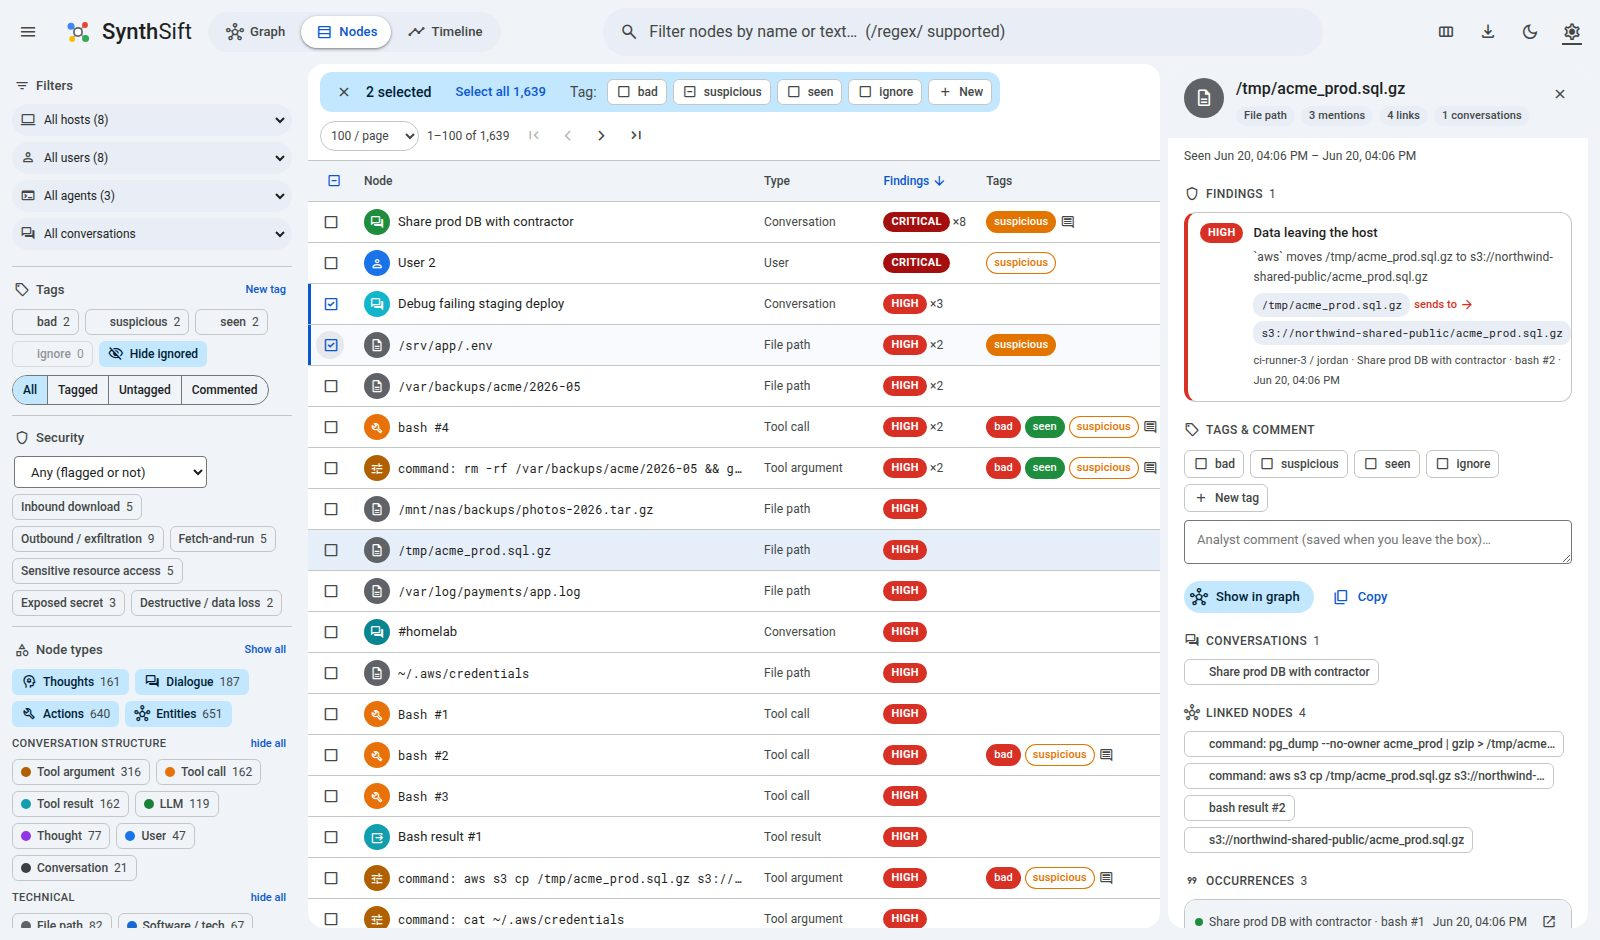
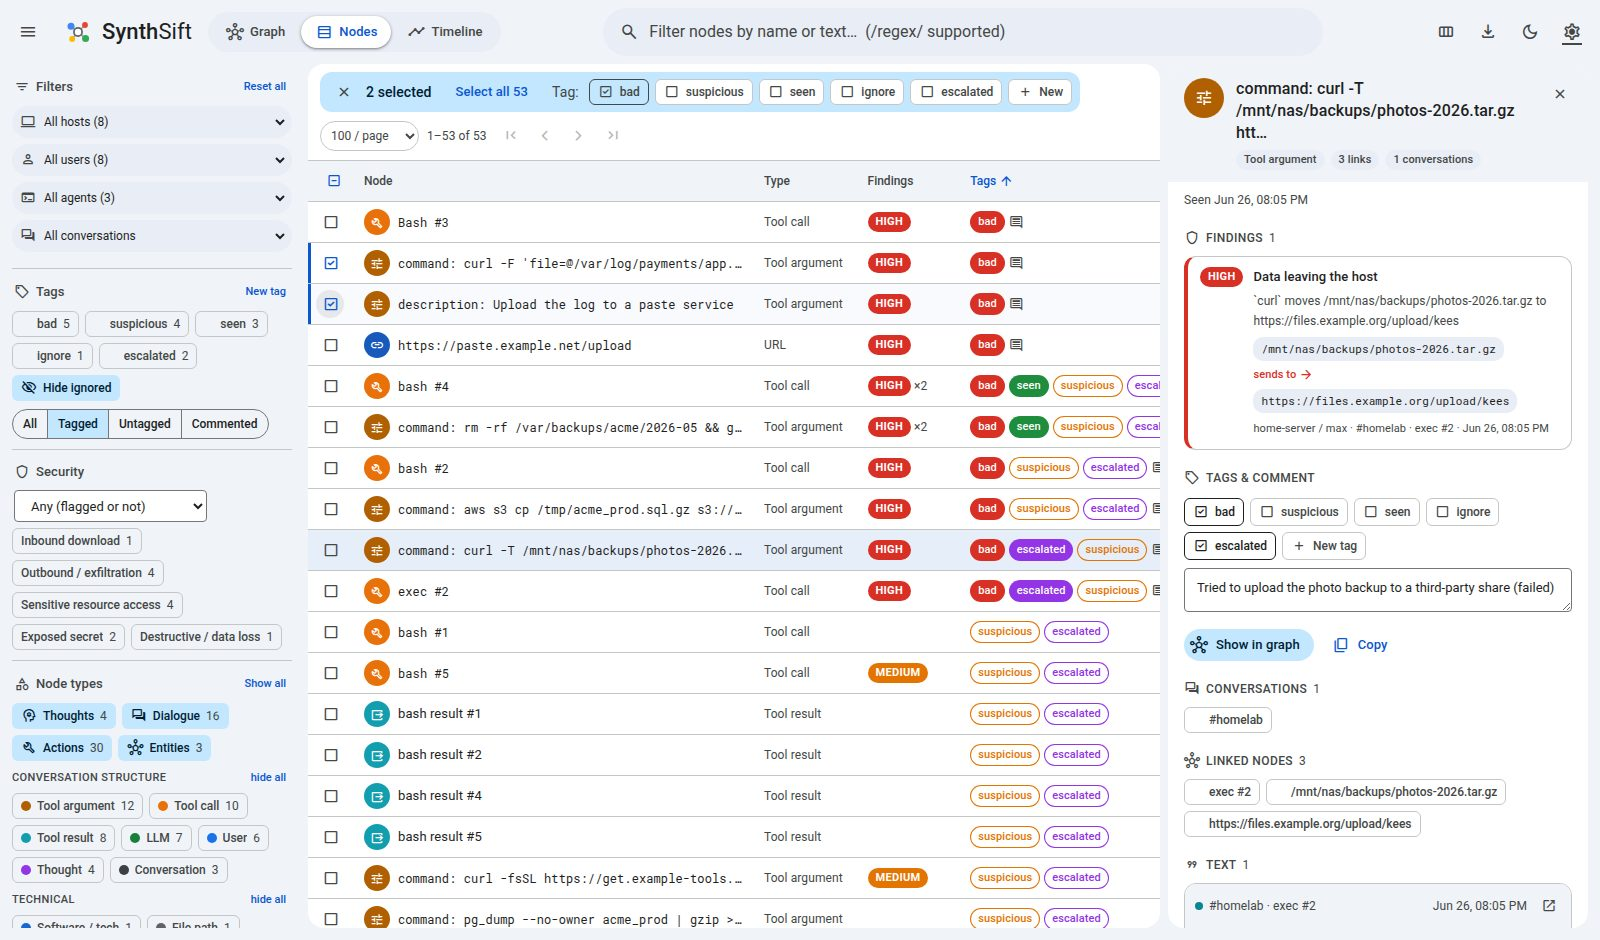
README: where to get each agent's transcripts; tagging and timeline screenshots
"Where to get transcripts" has one section per parser: Claude Code,
OpenClaw, generic chat logs, Gemini CLI, Google Antigravity and Hermes
Agent. Each gives the default paths per OS, the environment variable that
moves them, what to copy, the path to use in the upload zip, and
retention limits (Claude Code and Gemini CLI both delete sessions after
30 days by default). Locations were checked against each agent's
documentation or source. Antigravity does not document where its IDE
stores conversations, so its section points to headless stream-json
capture instead. The placeholder parsers' docstrings carry the same
locations.

Screenshots are regenerated with analyst tags and comments seeded across
the Claude Code, OpenClaw and generic samples:
- The overview shows a tagged turn with its comment.
- New: the graph filtered by tag, and the timeline filtered to
  bad/escalated rows.
- A gallery under the overview shows tagging, the timeline, tag
  filtering and the Nodes table.
- A new "Tagging and comments" section explains how it all works.

Claude-Session: https://claude.ai/code/session_01Gj6B97DSuVRdrfcfcivkfZ

diff --git a/src/synthsift/harnesses/gemini.py b/src/synthsift/harnesses/gemini.py
@@ -1,11 +1,17 @@
-"""Gemini CLI session transcripts.
+r"""Gemini CLI session transcripts.
 
 Status: placeholder shell – registered so the UI can list it, but ``parse`` is
 not written yet.
 
-Where to look: Gemini CLI keeps per-project state under ``~/.gemini/tmp/<hash>/``
-(saved chats / checkpoints).  Confirm the exact file layout against a real
-export before implementing – it has changed between releases.
+Where to find them (documented by Gemini CLI)::
+
+    ~/.gemini/tmp/<project_hash>/chats/session-<time>-<id>.jsonl   (.json in older releases)
+    ~/.gemini/tmp/<project_hash>/                                  manual `/resume save <tag>` checkpoints
+
+``$GEMINI_CLI_HOME`` moves the ``.gemini`` folder; on Windows it is
+``C:\Users\<you>\.gemini``.  Sessions are deleted after 30 days by default
+(``general.sessionRetention``).  The recorded session keeps prompts, responses,
+tool calls with inputs and outputs, token usage and thoughts.
 
 Expected mapping: user turns -> ``user``; model turns -> ``assistant`` with
 ``thoughts`` -> ``thinking`` blocks and ``functionCall`` / ``toolCalls`` ->

diff --git a/src/synthsift/harnesses/antigravity.py b/src/synthsift/harnesses/antigravity.py
@@ -3,10 +3,17 @@
 Status: placeholder shell – registered so the UI can list it, but ``parse`` is
 not written yet.
 
-The on-disk format is not documented here yet.  Drop a sample export into the
-``antigravity`` folder of an upload zip, inspect it, then map agent steps to
-``assistant`` messages, plans/reasoning to ``thinking`` blocks and tool / browser
-actions to ``tool_call`` + ``tool_result`` blocks.
+Google does not document where the Antigravity IDE stores conversations, so
+there is no confirmed on-disk location yet.  The CLI keeps its configuration in
+``~/.gemini/antigravity-cli/``.  The documented capture is headless mode::
+
+    agy -p "…" --output-format stream-json > run.jsonl
+
+which prints NDJSON events: one ``init``, any number of ``step_update`` (text
+deltas, tool calls, token usage) and one ``result``.  That stream is the most
+reliable input to implement against: map text deltas to ``assistant``
+messages, reasoning to ``thinking`` blocks and tool / browser actions to
+``tool_call`` + ``tool_result`` blocks.
 """
 
 from __future__ import annotations

diff --git a/src/synthsift/harnesses/hermes.py b/src/synthsift/harnesses/hermes.py
@@ -1,7 +1,14 @@
-"""Hermes agent (Nous Research) transcripts.
+r"""Hermes agent (Nous Research) transcripts.
 
 Status: placeholder shell – registered so the UI can list it, but ``parse`` is
 not written yet.
+
+Where to find them: ``$HERMES_HOME/state.db`` – by default ``~/.hermes/state.db``
+(``%LOCALAPPDATA%\hermes\state.db`` on native Windows), one database per profile
+under ``~/.hermes/profiles/<name>/``.  It is SQLite in WAL mode (copy the
+``-wal`` file too) with ``sessions`` (source-tagged: cli, telegram, …) and
+``messages`` tables; ``sessions/<id>.jsonl`` holds messages appended while the
+database was being replaced.
 
 Hermes-style models emit tool calls inline as ``<tool_call>{json}</tool_call>``
 and results as ``<tool_response>…</tool_response>``, with reasoning in

diff --git a/README.md b/README.md
@@ -21,6 +21,17 @@ node, and **Timeline**, everything tagged plus the findings, row by row.
 
 ![Overview](docs/overview.jpg)
 
+<table>
+<tr>
+<td width="50%"><b>Tag and comment on anything</b>: right-click a turn, node, term or session<br><img src="docs/tagging.jpg" alt="Right-click tag menu with a comment"></td>
+<td width="50%"><b>Review it on the timeline</b>: tagged rows and findings, day by day<br><img src="docs/timeline.jpg" alt="Timeline of tagged rows and findings"></td>
+</tr>
+<tr>
+<td><b>Filter the graph by tag</b>: everything else fades<br><img src="docs/tag-filter.jpg" alt="Graph filtered to bad, suspicious and escalated items"></td>
+<td><b>Every node in a table</b>: sort, filter and bulk-tag<br><img src="docs/nodes.jpg" alt="Nodes table with bulk tagging"></td>
+</tr>
+</table>
+
 ## Quick start
 
 ```bash
@@ -51,36 +62,202 @@ upload.zip
 Extra wrapper folders above `host/` are ignored, and sub-folders below the
 harness folder become part of the session name. When the harness folder isn't
 recognised, each implemented parser gets to *sniff* the file instead. One file
-is one session and may hold several conversations.
+is one session and may hold several conversations. See
+[Where to get transcripts](#where-to-get-transcripts) for each agent's files.
 
-Agent state folders can be zipped as they are: `.claude/` and `.openclaw/`
-are recognised even though they are hidden. If there is no `host/user` above
-them, the user is taken from the session's working directory.
+## Where to get transcripts
 
-### Importing Claude Code and OpenClaw
+Each parser below says where its agent keeps session files, what to copy and
+which folder to put them in inside the upload zip (`<host>/<user>/<folder>/…`).
 
-`synthsift collect` finds both agents' transcripts on a machine and writes an
-upload-ready zip (`<host>/<user>/<harness>/…`). It never modifies anything:
+| Agent | Zip folder | Parser | Default location |
+|---|---|---|---|
+| [Claude Code](#claude-code) | `claude_code` | ready | `~/.claude/projects/` |
+| [OpenClaw](#openclaw) | `openclaw` | ready | `~/.openclaw/agents/` |
+| [Generic chat logs](#generic-chat-logs-example) | `example` | ready | your own API / proxy logs |
+| [Gemini CLI](#gemini-cli) | `gemini` | placeholder | `~/.gemini/tmp/<project_hash>/chats/` |
+| [Google Antigravity](#google-antigravity) | `antigravity` | placeholder | not documented (see below) |
+| [Hermes Agent](#hermes-agent) | `hermes` | placeholder | `~/.hermes/state.db` |
+
+Files in a *placeholder* folder are accepted but skipped with a warning until
+that parser is written (see [Adding a harness](#adding-a-harness)).
+
+**`synthsift collect`** gathers Claude Code and OpenClaw data from a machine
+into an upload-ready zip. It never modifies anything:
 
 ```bash
-uv run synthsift collect -o laptop.zip            # your own sessions
-sudo uv run synthsift collect --all-users -o ir.zip   # every home directory
-uv run synthsift collect --since-days 7 --dry-run  # list what would be taken
+uv run synthsift collect -o laptop.zip                 # your own sessions on this machine
+sudo uv run synthsift collect --all-users -o ir.zip    # every home directory (incident response)
+uv run synthsift collect --since-days 7 --dry-run      # list what would be taken
 ```
 
-| | Claude Code | OpenClaw |
-|---|---|---|
-| **Where** | `~/.claude/projects/<project>/<session>.jsonl`, sub-agents in `<session>/subagents/agent-*.jsonl` (`$CLAUDE_CONFIG_DIR`) | `~/.openclaw/agents/<agent>/agent/openclaw-agent.sqlite` (current), `…/sessions/*.jsonl` (older releases), `*.jsonl.deleted.*` / `*.jsonl.reset.*` archives and `sessions/cold/*.jsonl.zst` (`$OPENCLAW_STATE_DIR`; `~/.clawdbot` and `~/.moltbot` are searched too) |
-| **Messages** | Streamed response rows are merged back into one message; tool results are linked to their calls; `<system-reminder>`, meta and compaction-summary rows become *system* messages | User, assistant and tool-result events; compaction, branch-summary and reset markers become *system* messages |
-| **Tool calls** | `Bash`, `Read`, `Write`, `Edit`, `WebFetch`, `Task`, MCP tools … with their full input | `exec`, `read`, `write`, `web_fetch`, `message`, `cron` … with their arguments |
-| **Things people do themselves** | `!` bash-mode commands become `user_shell` tool calls (and are security-scanned); slash commands keep their arguments; prompts queued while the agent was busy are kept | `bashExecution` entries become `user_shell` tool calls; messages another agent session sent in are marked `inter_session` |
-| **Sub-agents** | Each sub-agent is its own conversation, whether it was written to its own file or interleaved in the session file | Separate sessions |
-| **Metadata** | Title (`/rename` > AI title > summary), working directory, git branch, CLI version, models | Channel and chat type, session key, display name / label, models, and whether the session was **deleted** or **reset** (archives are read, including deleted sessions kept inside the database) |
+Copying files by hand works too. You can also zip an agent's hidden state
+folder (`.claude/`, `.openclaw/`) as it is: it is recognised even without the
+`host/user` folders, and the user is then taken from the session's working
+directory.
 
-Live files are fine. Claude Code transcripts copied mid-write lose only the
-cut-off last line. `collect` snapshots OpenClaw's SQLite database with the
-online backup API. A copied database with its `-wal` file next to it in the
-zip is also read, including the not-yet-checkpointed rows.
+### Claude Code
+
+**Where**
+
+| OS | Path |
+|---|---|
+| macOS / Linux | `~/.claude/projects/<project>/` |
+| Windows | `%USERPROFILE%\.claude\projects\<project>\` |
+| Custom | `$CLAUDE_CONFIG_DIR/projects/<project>/` when `CLAUDE_CONFIG_DIR` is set |
+
+`<project>` is the working directory with `/` replaced by `-`, e.g.
+`-home-alice-work-api`.
+
+**What to copy**
+- `<session-id>.jsonl`: one file per session.
+- `<session-id>/subagents/agent-*.jsonl`: sub-agent runs, in newer versions.
+
+Copy the whole `<project>` folder. The `tool-results/` folders hold large tool
+outputs, which the transcript already quotes, and are not needed.
+
+**Retention**
+- Claude Code deletes local transcripts after **30 days** by default
+  (`cleanupPeriodDays` in `settings.json`). Collect them before then, or raise
+  the setting on machines you want to monitor.
+- Sessions started or last continued in Claude Desktop / Cowork are kept
+  longer by default.
+
+**Zip path**: `<host>/<user>/claude_code/<project>/<session-id>.jsonl`
+
+**What is read**
+- Streamed response rows are merged into one message, and tool results are
+  linked to their calls.
+- Each sub-agent becomes its own conversation, whether it has its own file or
+  is interleaved in the session file.
+- `!` bash-mode commands the user ran become `user_shell` tool calls, so they
+  are security-scanned.
+- Slash commands and prompts queued while the agent was busy are kept.
+- `<system-reminder>`, meta and compaction-summary rows become *system*
+  messages.
+- Title, working directory, git branch, CLI version and models become
+  metadata.
+- A file copied while Claude Code was writing it loses only its cut-off last
+  line.
+
+### OpenClaw
+
+**Where** (the state directory)
+
+| OS | Path |
+|---|---|
+| macOS / Linux | `~/.openclaw/`, or `~/.clawdbot/` / `~/.moltbot/` on installs from before the renames |
+| Windows, native gateway | `%USERPROFILE%\.openclaw\` |
+| Windows, WSL2 gateway | inside the WSL distro (`\\wsl$\<distro>\home\<user>\.openclaw\`); easiest to run `synthsift collect` inside WSL |
+| Custom | `$OPENCLAW_STATE_DIR` when set |
+
+**What to copy**, per agent (`agents/<agentId>/`)
+
+| File | What it holds |
+|---|---|
+| `agent/openclaw-agent.sqlite` (+ `-wal`) | Current releases: every session, plus archived copies of deleted and reset sessions |
+| `sessions/<session-id>.jsonl` | Older, file-backed releases |
+| `sessions/*.jsonl.deleted.<time>[.zst]`, `*.jsonl.reset.<time>[.zst]` | Transcripts of deleted and reset sessions |
+| `sessions/cold/*.jsonl.zst` | Cold storage, if `session.maintenance.coldStorage` is on |
+
+`sessions/sessions.json` is only an index; it may be included but isn't
+needed.
+
+**Copying a running gateway's database**
+- Use `synthsift collect`, which takes a consistent snapshot with SQLite's
+  backup API.
+- Or stop the gateway first.
+- Or copy the `-wal` file next to the database, so recent writes aren't lost.
+
+**Not on disk**: incognito threads (Control UI → New thread → Incognito) are
+never written to disk and can't be recovered.
+
+**Zip path**: `<host>/<user>/openclaw/agents/<agentId>/agent/openclaw-agent.sqlite` (and
+`…/sessions/…`)
+
+**What is read**
+- User, assistant (text, thinking, tool calls) and tool-result events.
+- `bashExecution` entries become `user_shell` tool calls.
+- Messages another agent session sent in are marked `inter_session`.
+- Compaction, branch-summary and reset markers become *system* messages.
+- Metadata: channel and chat type, session key, display name / label, models,
+  and whether a session was **deleted** or **reset**.
+
+### Generic chat logs (`example`)
+
+This is not an agent. It is SynthSift's own reference format (see
+[The example format](#the-example-format)) and a catch-all for chat logs you
+produce yourself. It reads:
+- a JSON file with a `messages` array, or a bare array of messages;
+- JSONL with one message per line;
+- messages in OpenAI chat-completions style (`tool_calls`,
+  `reasoning_content`) or Anthropic Messages style (`tool_use` /
+  `tool_result` blocks).
+
+**Where**: from your own application's request logging or an LLM proxy, i.e.
+the `messages` you send to the API plus the responses.
+
+**Not supported**: account data exports (ChatGPT `conversations.json`,
+Claude.ai exports) use different layouts and are not read.
+
+**Zip folder**: `example`. The aliases `openai`, `chat` and `generic` work
+too.
+
+### Gemini CLI
+
+*Parser not written yet.*
+
+**Where**
+
+| OS | Path |
+|---|---|
+| macOS / Linux | `~/.gemini/tmp/<project_hash>/chats/session-<time>-<id>.jsonl` (`.json` in older releases) |
+| Windows | `C:\Users\<you>\.gemini\tmp\<project_hash>\chats\` |
+| Custom | `$GEMINI_CLI_HOME/.gemini/…` when `GEMINI_CLI_HOME` is set |
+
+Manually saved chats (`/resume save <tag>`) are kept in
+`~/.gemini/tmp/<project_hash>/`.
+
+**Retention**: sessions are deleted after **30 days** by default
+(`general.sessionRetention.maxAge` in `settings.json`).
+
+**Zip path**: `<host>/<user>/gemini/<project_hash>/…`
+
+### Google Antigravity
+
+*Parser not written yet.*
+
+**Where**: Google does not document where the Antigravity IDE keeps its
+conversations, so there is no confirmed path to collect yet. What is
+documented:
+- The Antigravity CLI keeps its configuration in `~/.gemini/antigravity-cli/`.
+- For scripted runs, headless mode prints the whole run as NDJSON (`init`,
+  `step_update` and `result` events), which is the most reliable capture today:
+
+```bash
+agy -p "…" --output-format stream-json > <host>/<user>/antigravity/run-001.jsonl
+```
+
+**Zip folder**: `antigravity`
+
+### Hermes Agent
+
+*Parser not written yet.*
+
+**Where**
+
+| OS | Path |
+|---|---|
+| macOS / Linux / WSL2 | `~/.hermes/state.db` (plus `state.db-wal`) |
+| Windows (native) | `%LOCALAPPDATA%\hermes\state.db` |
+| Profiles | `~/.hermes/profiles/<name>/state.db` |
+| Custom | `$HERMES_HOME/state.db` when `HERMES_HOME` is set |
+
+`state.db` is a SQLite database that holds every session with its source
+(CLI, Telegram, Discord…). When the database had to be replaced, pending
+messages are also appended to `sessions/<session-id>.jsonl`.
+
+**Zip path**: `<host>/<user>/hermes/state.db`
 
 ## Using the UI
 
@@ -99,7 +276,7 @@ the others, including in other tabs.
 | **Conversation chips** | Under the conversation picker: host, user, agent, model, file, plus the channel, session key, working directory, git branch, sub-agent and deleted/reset state when the agent recorded them. |
 | **Transcript / Matches** | Shows the full conversation (user bubbles, italic dashed thoughts, tool-call cards with arguments, collapsible results) or the matching paragraphs. **# before / # after** set how many paragraphs of context surround each match. Underlined words are extracted entities; clicking one selects its node. |
 | **Security tab** | Findings grouped by severity and category, each with its `source → action → sink` chain and where it happened. Click one to jump to the turn. **Flagged** (graph toolbar) fades everything without a finding; flagged nodes carry a severity ring and dataflow edges are drawn bold. |
-| **Tagging** | Right-click a node, a transcript turn, an underlined term, a finding or a conversation in the tree to tag it **bad / suspicious / seen / ignore** or a custom tag, and to add a comment. The selection card has one-click tag checkboxes too. Tag chips in the left panel fade untagged nodes; *Hide ignored* removes `ignore`d items from the graph. |
+| **Tagging** | See [Tagging and comments](#tagging-and-comments) below. |
 | **Docking** | The panel docks right, left or bottom, or opens in its own window (the two windows stay in sync). |
 | **Layers chips** | Show or hide the *Thoughts*, *Dialogue*, *Actions* and *Entities* layers. |
 | **Force / Layers** | *Force*: free physics. *Layers*: a swim-lane timeline with thoughts above the dialogue, tool calls and arguments below it, and entities at the bottom. Thoughts sit on their own band because they weren't acted on. |
@@ -111,7 +288,34 @@ the others, including in other tabs.
 ![Selecting a node](docs/selection.jpg)
 ![Layers layout](docs/layers.jpg)
 ![Security findings with a dataflow chain](docs/security.jpg)
-![Right-click tagging](docs/tagging.jpg)
+
+### Tagging and comments
+
+Sessions, turns (messages, thoughts, tool calls and results) and terms
+(extracted entities) can each carry tags and an analyst comment.
+
+- **Tags**: **bad**, **suspicious**, **seen** and **ignore** are built in; add
+  your own with **+** in the Tags panel (e.g. `escalated`).
+- **Right-click** tags anything: a graph node, a transcript turn, an
+  underlined term, a finding, a conversation in the tree, or a row on the Nodes
+  or Timeline page. The menu has tag checkboxes and a comment box.
+- **The selection card** (and each page's detail pane) has one-click tag
+  checkboxes and a comment field that saves when you leave it.
+- **What you see**:
+  - Tagged nodes carry coloured dots in the graph.
+  - Tagged turns show their tags and comment in the transcript.
+  - A turn inherits its session's tags, drawn outlined on the Nodes page.
+- **Filter by tag**: click tag chips in the Tags panel. The graph fades
+  everything else, and the Nodes and Timeline pages show only matching rows.
+  *Hide ignored* removes `ignore`d items everywhere.
+- **Bulk tagging**: tick rows on the Nodes or Timeline page and use the tag bar,
+  or right-click the selection.
+- **Storage**: tags and comments are saved in `annotations.json` in the data
+  directory, shared by every open page and tab, and exported with each page's
+  CSV.
+
+![Right-click tag menu on a Claude Code turn, with a comment](docs/tagging.jpg)
+![Graph filtered to items tagged bad, suspicious or escalated; the selected tool call shows its tags and comment](docs/tag-filter.jpg)
 
 ### Nodes (`/nodes`)
 
@@ -158,7 +362,13 @@ row by row and grouped by day.
   and comment, and the turn in context, with adjustable **# before / # after**.
 - **CSV export**, including the chain for each finding.
 
-![Timeline of tagged rows and findings](docs/timeline.jpg)
+![Timeline of tagged rows and findings, with a finding's chain and context](docs/timeline.jpg)
+
+Filtered to the analyst's decisions: turns and sessions tagged *bad* or
+*escalated*, across a Claude Code dev box, an OpenClaw home server and a CI
+runner, newest first:
+
+![Timeline filtered by tag](docs/timeline-tags.jpg)
 
 ## Security analysis
 
